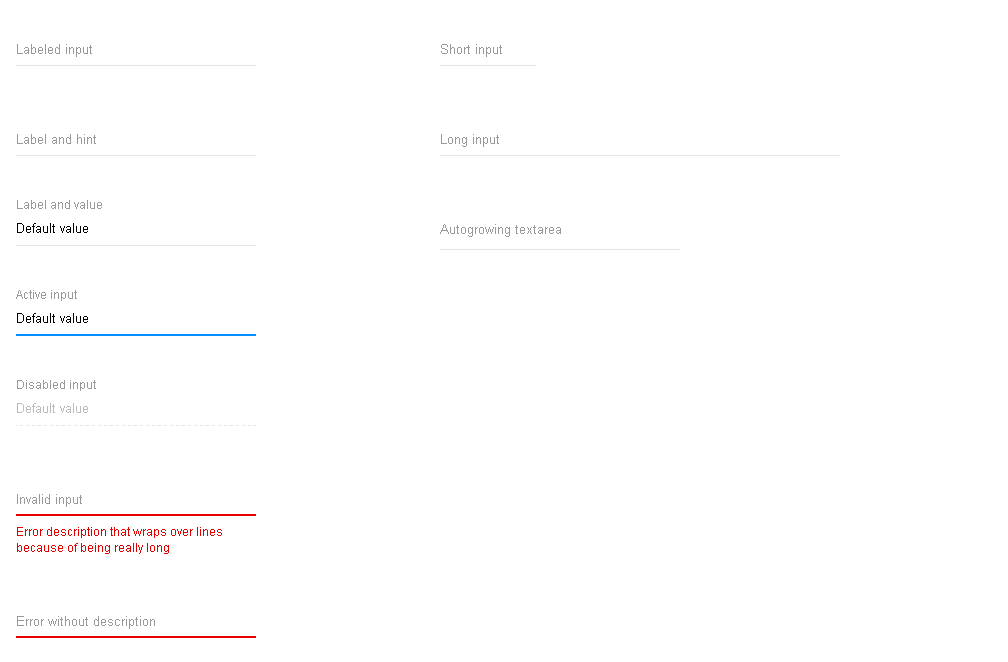
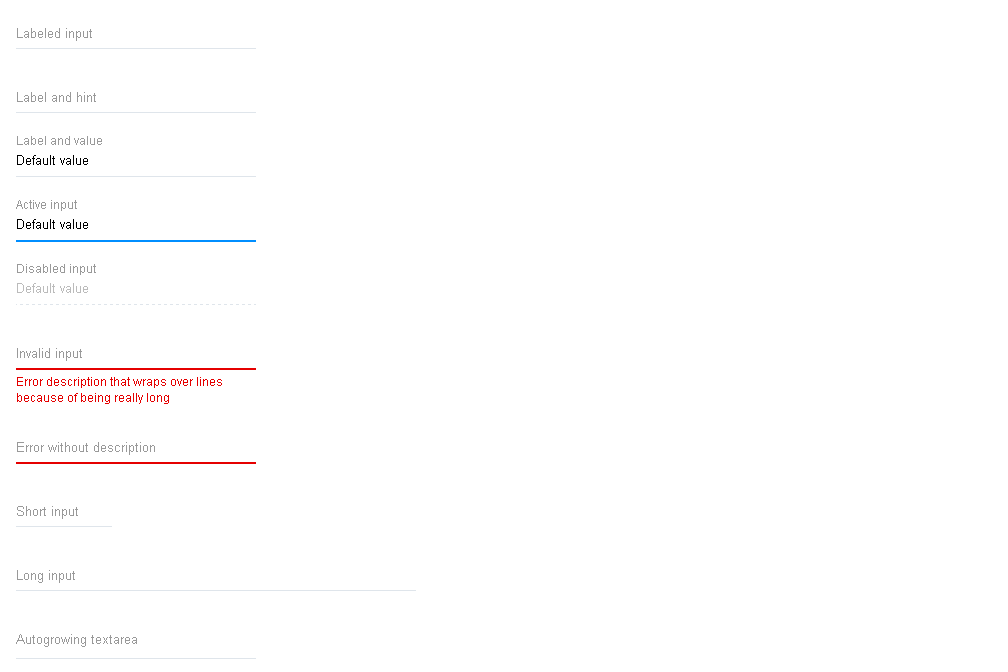
RG-1153 UI Language: input
Former-commit-id: bc7b334f42bf55d9e0e55ea47e259b448bbe0f37

diff --git a/components/input/input.css b/components/input/input.css
@@ -1,9 +1,11 @@
-@value unit, font-lower, font-smaller-lower, font-size-smaller, line-color, white-color, gray-color, disabled-color, main-color, error-color from  "../global/global.css";
+@value unit, font-lower, font-smaller-lower, font-size-smaller, line-color, white-color, gray-color, disabled-color, main-color, error-color, ease, fast-ease from  "../global/global.css";
 
 .container {
   composes: font-lower;
   padding-top: calc(unit * 2);
   position: relative;
+  box-sizing: border-box;
+  min-height: calc(unit * 8);
 
   & * {
     box-sizing: border-box;
@@ -17,10 +19,10 @@
   font: inherit;
   border: none;
   outline: none;
-  background-color: white-color;
+  background: transparent;
 
   &::placeholder {
-    color: disabled-color;
+    color: transparent;
   }
 
   &[disabled] {
@@ -33,14 +35,14 @@
   */
   &:-webkit-autofill {
     &, &:hover, &:focus {
-      box-shadow: 0 0 0px 1000px white-color inset;
-      transition: background-color 5000s ease-in-out 0s;
+      transition: background-color 50000s ease-in-out 0s;
     }
   }
 }
 
 textarea.input {
   box-sizing: border-box;
+  padding-top: unit;
   overflow: hidden;
   resize: none;
 }
@@ -49,10 +51,9 @@ textarea.input {
   color: gray-color;
   pointer-events: none;
   position: absolute;
-  background: white-color;
   top:calc(unit * 3);
   left: 0;
-  transition: all .15s ease-out;
+  transition: all fast-ease;
 }
 
 .input:focus ~ .label,
@@ -60,7 +61,12 @@ textarea.input {
 .container:not(.empty) > .label {
   background: transparent;
   font-size: font-size-smaller;
-  top: 0;
+  top: calc(unit / 2);
+}
+
+input:focus::placeholder {
+  color: disabled-color;
+  transition: color ease;
 }
 
 input:focus ~ .label {
@@ -72,7 +78,7 @@ input:focus ~ .label {
 }
 
 .underline {
-  height: 2px;
+  height: 1px;
   border-bottom: 1px solid line-color;
 }
 
@@ -82,13 +88,17 @@ input:focus ~ .label {
 
 .focusUnderline,
 .errorUnderline {
-  margin-top: -2px;
   height: 2px;
   width: 0;
+}
+
+.focusUnderline {
+  margin-top: -1px;
   background: main-color;
 }
 
 .errorUnderline {
+  margin-top: -2px;
   background: error-color;
 }
 
@@ -105,7 +115,7 @@ input:focus ~ .label {
   box-sizing: border-box;
   height: 0;
   overflow: hidden;
-  padding-top: unit;
+  padding: calc(unit / 2) 0 unit;
   transition: height .3s ease-out;
 }
 

diff --git a/components/input/input.examples.html b/components/input/input.examples.html
@@ -8,10 +8,11 @@
       display: flex;
       flex-flow: column wrap;
       max-height: 100vh;
+      margin-top: 8px;
     }
 
     .inputs > div {
-      margin: 16px;
+      margin: 0 16px;
     }
   </file>
 
